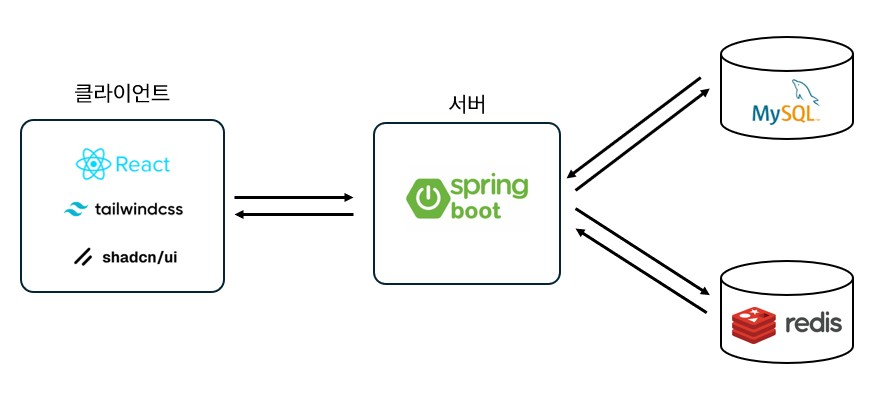
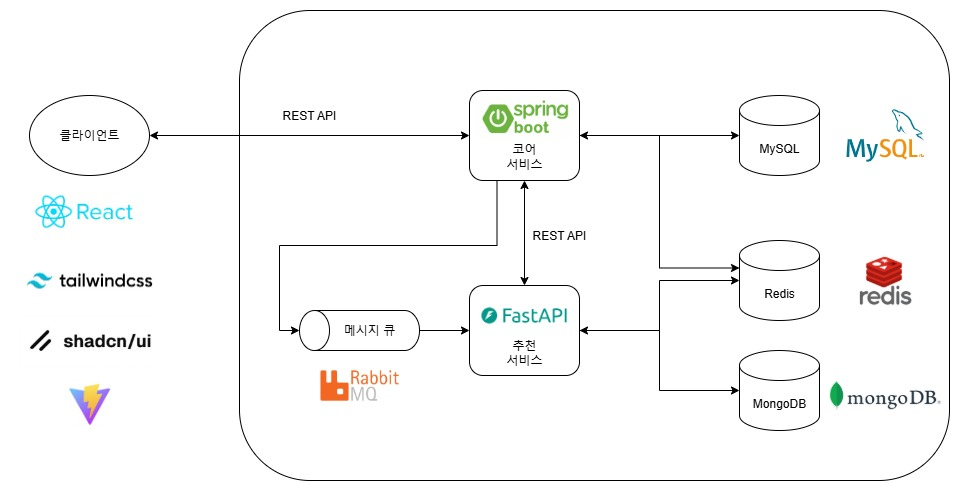
docs: README 최신화

diff --git a/README.md b/README.md
@@ -33,12 +33,17 @@
 ## 백엔드
 - Spring Boot
 - Spring Data JPA
+- FastAPI
+- RabbitMQ
 - MySQL
+- MongoDB
 - Redis
+
+서버 앱은 MSA 구조로 구성했습니다. 추천 시스템을 코어 서비스로부터 분리했고 관련 이벤트를 소비하며 사용자들이 관심있어할만한 관광지를 추천합니다.
 
 서버 앱 프레임워크로 Flask를 사용해 본 적이 있습니다. Flask의 경우 경량 프레임워크이기 때문에 직접 구현해야하는 부분이 많아 번거로운 부분이 많았습니다. 최근 Spring과 Spring MVC를 공부하면서 객체지향 웹 프레임워크의 Best Practice를 보는 것 같다는 생각을 하게 되었고 매력적으로 느껴졌습니다. 따라서 이번 프로젝트에서는 Spring을 사용해 봤습니다. Spring Data JPA의 경우, 엔티티만 구현하면 DAO를 자동으로 만들어주기 때문에 구현 부담을 줄이기 위해 사용했습니다.
 
-메인 DB(ex. 회원 데이터, 관광지 데이터)로는 MySQL을 사용하고 보조 DB(ex. 실시간 트렌드 수집 및 집계)로 Redis를 사용했습니다.
+코어 서비스에서는 DB(ex. 회원 데이터, 관광지 데이터)로는 MySQL을 사용하고 추천 서비스에서는 MongoDB와 Redis를 사용했습니다. 추천 서비스는 데이터 간 연관관계가 관리될 필요가 없고 도메인 특성상 스키마를 유연하게 가져가는 것이 적절한 것 같아 MongoDB를 영속 DB로 사용했습니다.
 
 ## 그 외
 - Postman
